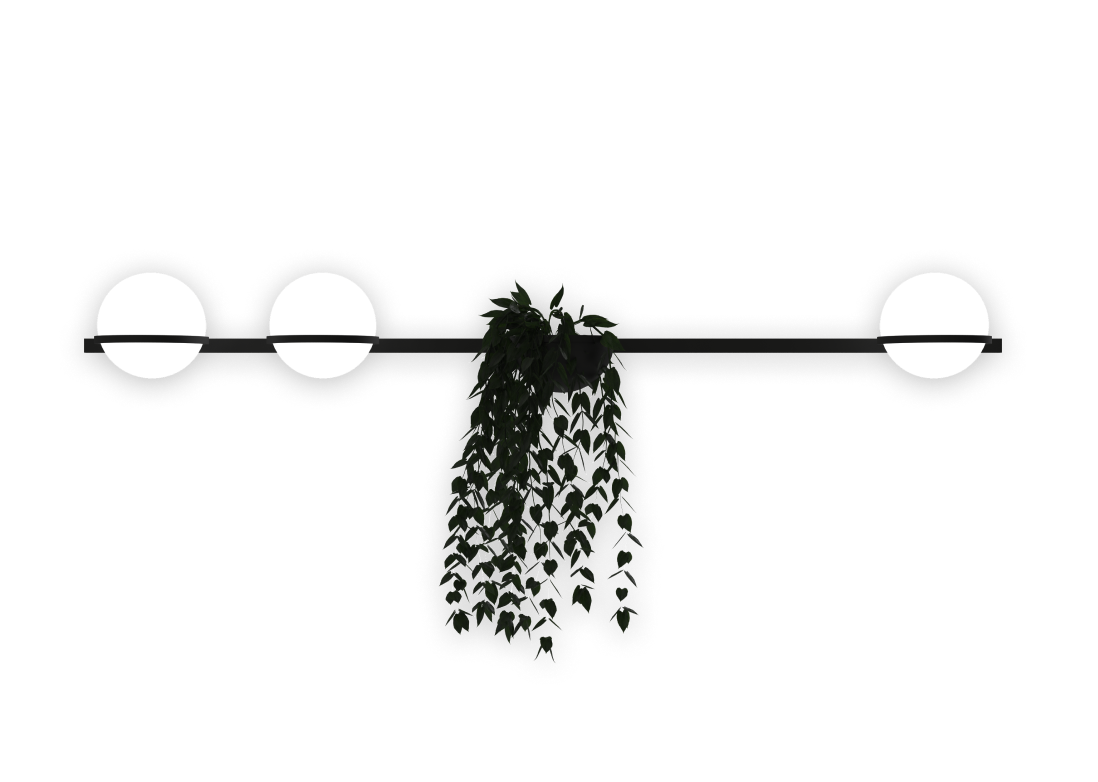
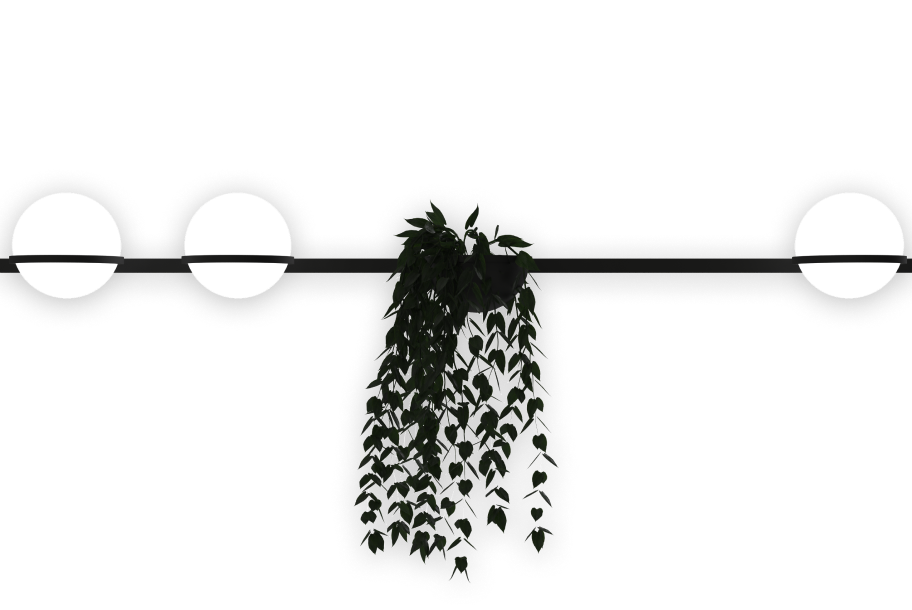
change images for product cards

Changed region(s): [[0.0, 0.3426, 1.0, 0.9656]]

diff --git a/src/pages/product/components/productHead/index.js b/src/pages/product/components/productHead/index.js
@@ -10,7 +10,18 @@ export const ProductHead = ({ ...props }) => {
   };
   return (
     <div className="product-head">
-      <img loading="lazy" decoding="async"src={props.cardImage} alt="img" className="product-head-img" />
+      <img
+        style={
+          props.id === "0020" || props.id === "0026"
+            ? { width: "35%" }
+            : { width: "45%" }
+        }
+        loading="lazy"
+        decoding="async"
+        src={props.cardImage}
+        alt="img"
+        className="product-head-img"
+      />
       <div className="product-head-order">
         <p className="product-head-order-name">{props.name}</p>
         <p className="product-head-order-name product-head-order-name-lite">

diff --git a/src/pages/product/components/productInfo/index.js b/src/pages/product/components/productInfo/index.js
@@ -5,7 +5,13 @@ export const ProductInfo = ({ ...props }) => {
   return (
     <div className="product-info">
       <div className="product-info-text">{props.infoText}</div>
-      <img loading="lazy" decoding="async"alt="img" src={props.pageImage} className="product-info-img" />
+      <img
+        loading="lazy"
+        decoding="async"
+        alt="img"
+        src={props.pageImage}
+        className="product-info-img"
+      />
     </div>
   );
 };

diff --git a/src/pages/product/index.js b/src/pages/product/index.js
@@ -16,6 +16,7 @@ export const Product = ({ ...props }) => {
           id === product.id && (
             <div className="product" key={product.id}>
               <ProductHead
+                id={product.id}
                 name={product.name}
                 subName={product.subName}
                 price={product.price}
